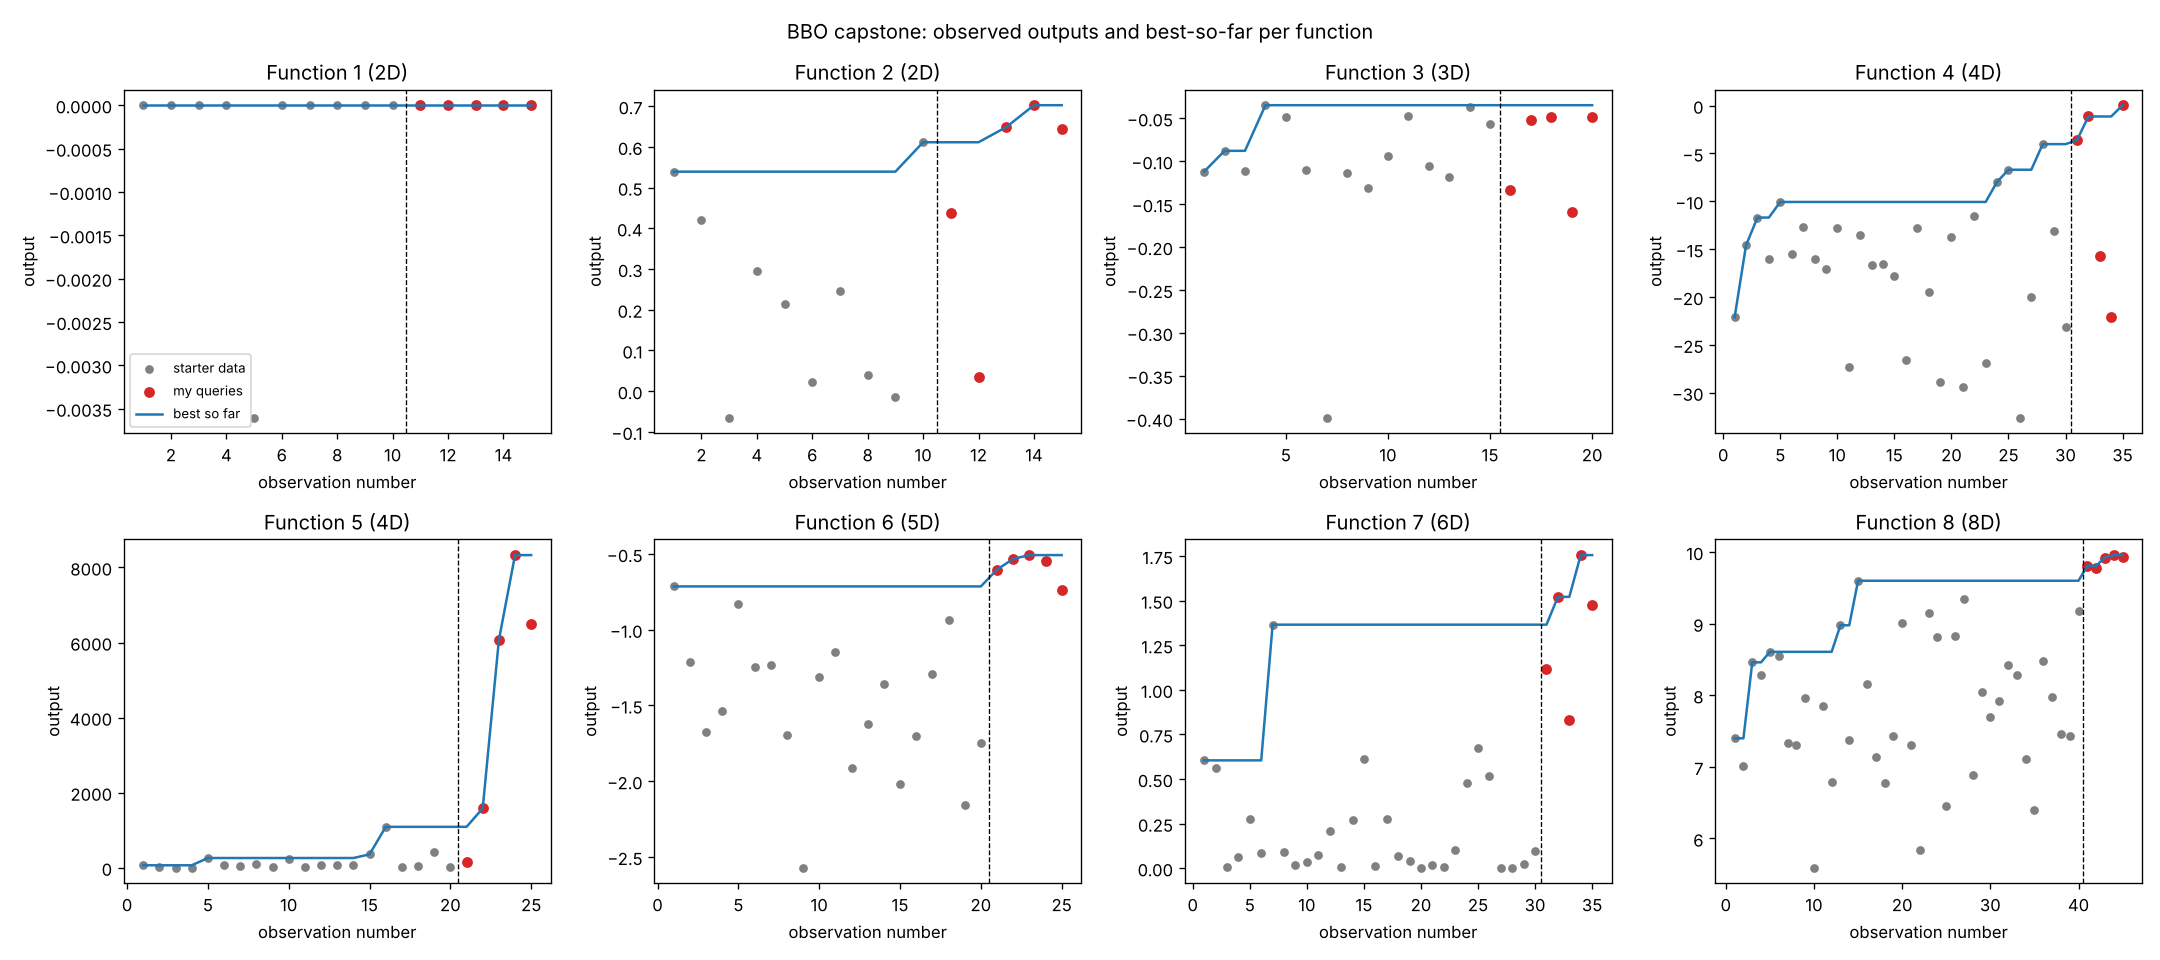
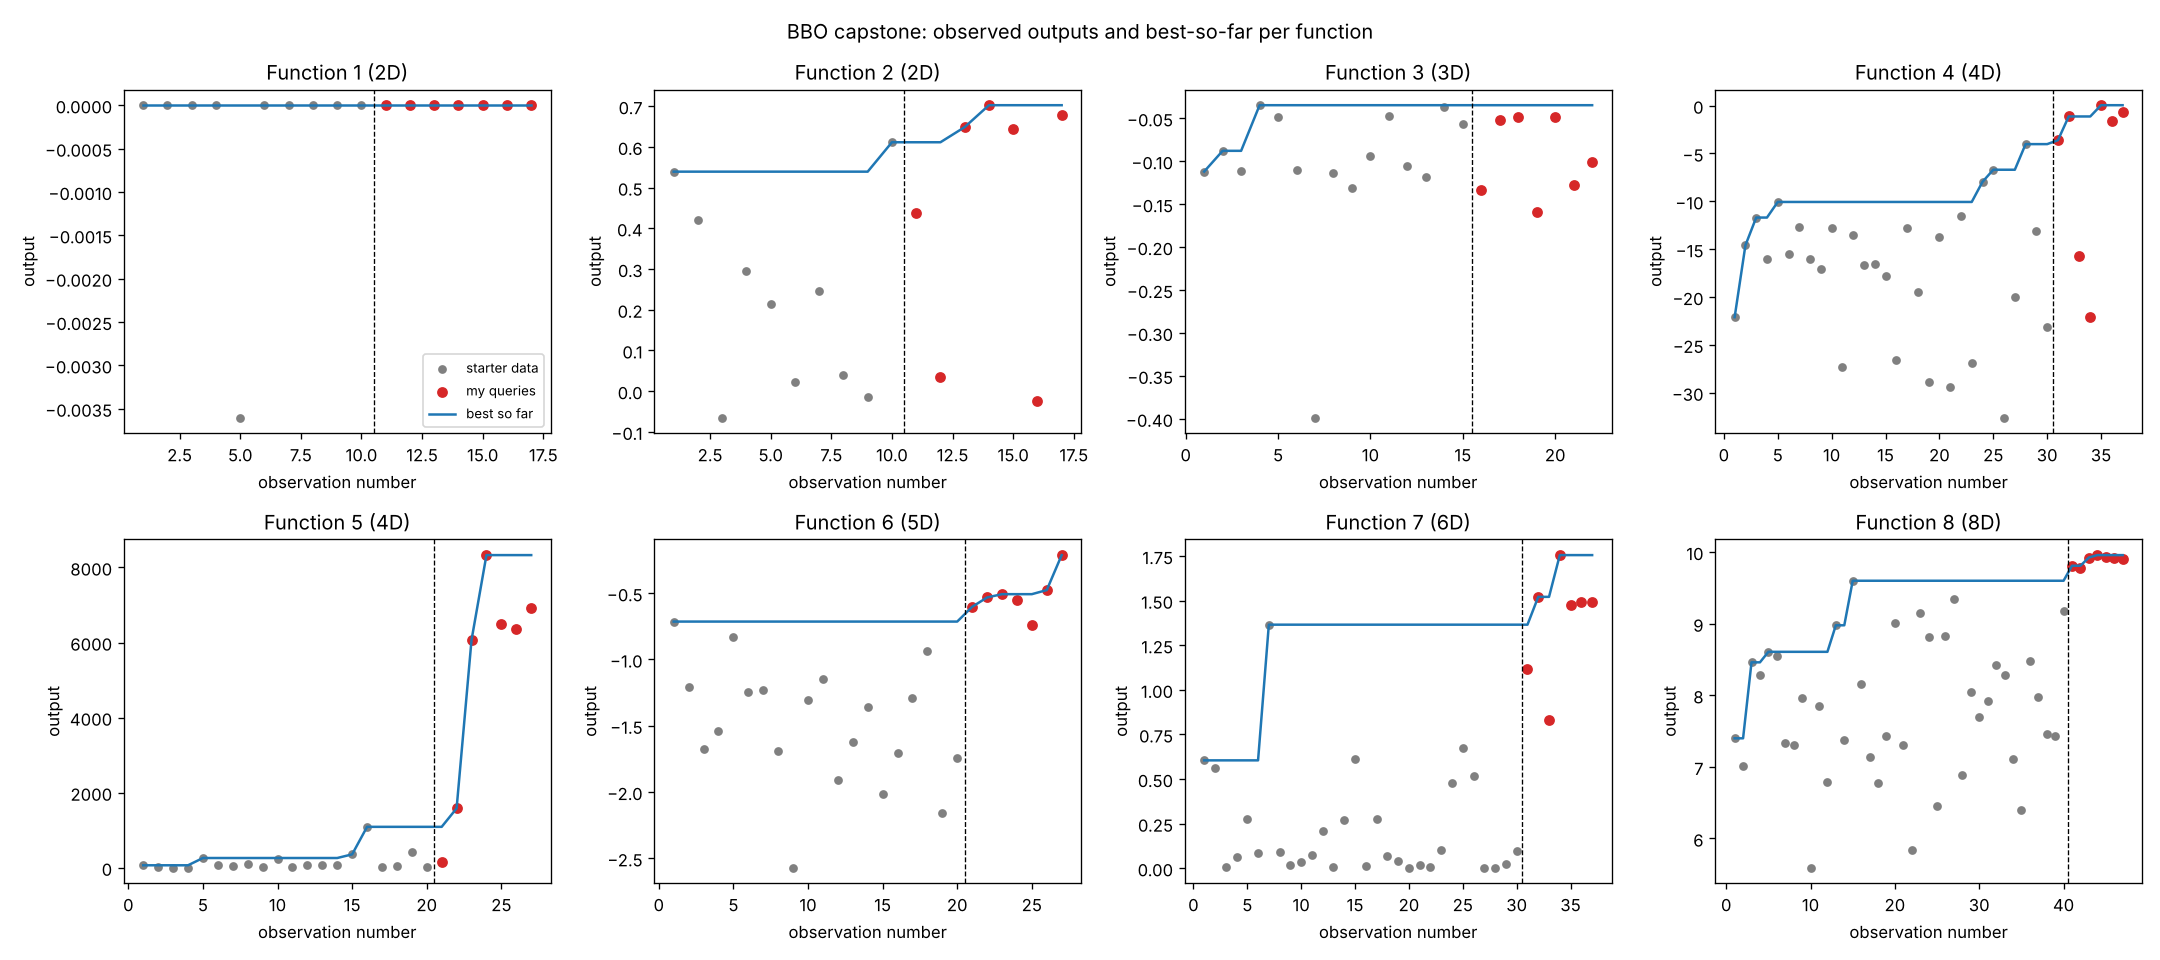
Regenerate progress chart and README after Round 7

diff --git a/README.md b/README.md
@@ -1,78 +1,88 @@
-# IC-ML-AI-Capstone: Black-Box Optimisation (BBO)
+# IC-ML-AI-Capstone: Black-Box Optimisation Challenge
 
-Imperial College ML & AI capstone. The task was to find the maximum of eight unknown functions (2 to 8 inputs each, all inputs scaled to [0, 1)) when each function could only be queried once per round.
+## Summary
 
-**Status:** results for rounds 1 to 4 are included. Round 5 queries are logged but their results were still pending when this was written. Later rounds will be added as they are completed.
+This project is the capstone for the Imperial College London / Emeritus Professional Certificate in Machine Learning and Artificial Intelligence. The challenge is to find the inputs that give the highest output for eight hidden functions, without knowing their formulas and with only one test per function each round. This is like tuning an expensive experiment, such as a drug formulation or a factory process, where every test costs time and money. Each round, a statistical model learns from all results so far and suggests the most promising next test, balancing safe improvements against trying unexplored options. This repository records that process, its results and its limitations.
 
-## In plain language (non-technical summary)
+## Repository Structure
 
-Imagine searching for the highest point in eight foggy landscapes, but you may only check one spot per landscape each week. I used a statistical model that learns from every earlier check to predict where the highest ground might be, and how unsure it is about each area. Over the first four rounds, seven of the eight landscapes gave better results than my first check, four of them improving again in the latest round, while one stayed flat. With so few checks I cannot be sure I have found any true peak, but the method turns each new result into a better-informed next guess.
-
-## Contents
-
-| Path | What it is |
-|------|------------|
-| `notebooks/bbo_analysis.ipynb` | Walk-through of the method and results, with outputs. Regenerates every table and plot from `data/` |
-| `bbo.py` | Core code: GP fitting, output transforms, acquisition functions (UCB, Expected Improvement), query formatting, CSV helpers |
-| `cli.py` | Command line: `suggest` a query per function, `log` a result |
-| `config.json` | Per-function settings (acquisition, kappa or xi, transform, Matern nu, noise, local search scale) |
-| `data/observations.csv` | Every submitted query and the value the portal returned (rounds 1 to 4) |
-| `data/submissions.json` | The same results in the format used during the project |
-| `data/rounds/` | Per-round query logs for rounds 2 to 5, with settings and model diagnostics |
-| `DATASHEET.md` | Datasheet for the dataset |
-| `MODEL_CARD.md` | Model card for the optimisation model |
-| `reflections/` | Written reflections |
-| `requirements.txt` | Dependencies |
-| `LICENSE` | MIT |
-
-## Method
-
-Each round, for every function, the pipeline:
-
-1. **Transforms the outputs** (per function): none, rank (for Function 1, whose outputs are almost all about zero), signed log (Function 4), or log(1+y) (Function 5, which spans orders of magnitude).
-2. **Fits a Gaussian process** (scikit-learn) with an ARD Matern kernel (nu = 1.5 for Function 2, 2.5 otherwise) and, except for Function 5, a learned noise term.
-3. **Scores 20,000 candidate points** (half near the current best, half uniform) with an acquisition function: Upper Confidence Bound (`mu + kappa * sigma`) for Functions 1, 2, 4, 5, 7, 8 and Expected Improvement for Functions 3 and 6.
-4. **Submits the best-scoring candidate** that is not a near-duplicate of an earlier query, formatted to six decimals.
-5. **Logs the settings and two leave-one-out checks** (error and calibration) in `data/rounds/`.
-
-Settings were the same in rounds 2 to 5 (see `config.json`), so differences between queries come from new data rather than retuning. The transform definitions in `bbo.py` were inferred from the logged diagnostics and are a reconstruction, not a copy of the original submission code. Round 1 settings were not logged.
-
-## How to reproduce
-
-```bash
-git clone https://github.com/ajwat-ctrl/IC-ML-AI-Capstone.git
-cd IC-ML-AI-Capstone
-pip install -r requirements.txt
-jupyter notebook notebooks/bbo_analysis.ipynb
+```
+IC-ML-AI-Capstone/
+├── README.md
+├── requirements.txt
+├── Data/
+│   ├── function_1/ ... function_8/
+│   │   ├── initial_inputs.npy       official starter inputs
+│   │   └── initial_outputs.npy      official starter outputs
+│   └── submissions.json             my queries + real portal outputs, by round
+├── Code/
+│   ├── bbo_core.py                  data loading, GP surrogate, acquisition, formatting
+│   ├── run_round.py                 produces one query per function for a round
+│   ├── plot_progress.py             best-so-far plot for all eight functions
+│   └── BBO_round_walkthrough.ipynb  step-by-step notebook version of a round
+├── Results/
+│   ├── round_NN_queries.json        query, settings, seed and diagnostics per round
+│   └── progress.png                 progress plot
+└── Documentation/
+    ├── Datasheet.md
+    └── Model_Card.md
 ```
 
-`python cli.py suggest --round 6` proposes queries from the points in `data/observations.csv`. The submitted queries were also fitted on the initial data supplied by the capstone (10 to 40 points per function), which is not stored here, so proposals will not match them exactly.
+## Documentation
 
-## Data
+- **[Datasheet](Documentation/Datasheet.md)**: what the data is, how it was collected, transformations, intended uses and limitations.
+- **[Model Card](Documentation/Model_Card.md)**: how the optimiser works, settings per function and why, performance metrics, assumptions, limitations and ethics.
 
-`data/observations.csv` has 32 rows (8 functions x 4 rounds): `function, round, query, y, rationale`. The data is tiny, so it is stored directly in the repo. See `DATASHEET.md`.
+## The Problem
 
-## Results (rounds 1 to 4)
+- Eight functions with 2 to 8 inputs each, every input between 0 and 1
+- Each returns one number, and every function is treated as **maximisation**
+- One query per function per round, submitted through the capstone portal as `x1-x2-...-xn` (six decimals, hyphens, no spaces)
 
-| Function | Inputs | Best submitted result | Round | Best of all points (incl. supplied data)* |
-|----------|--------|-----------------------|-------|--------------------------------------------|
-| 1 | 2 | about 0 (1.2e-149) | 1 | 7.7e-16 |
-| 2 | 2 | 0.702 | 4 | 0.702 |
-| 3 | 3 | -0.0489 | 3 | -0.0348 |
-| 4 | 4 | -1.136 | 2 | -1.136 |
-| 5 | 4 | 8328.7 | 4 | 8328.7 |
-| 6 | 5 | -0.5075 | 3 | -0.5075 |
-| 7 | 6 | 1.755 | 4 | 1.755 |
-| 8 | 8 | 9.956 | 4 | 9.956 |
+## Approach
 
-\* From the model's training set before round 5 (`data/rounds/round_05_queries.json`).
+Bayesian optimisation with a Gaussian Process surrogate for each function. The GP predicts both a value and its uncertainty, and an acquisition function (Upper Confidence Bound or Expected Improvement) picks the next query by balancing the two. Settings are tuned per function from the official descriptions and the observed data. See the [Model Card](Documentation/Model_Card.md) for the full table.
 
-Highlights: Functions 2, 5, 7 and 8 each set a new best in round 4. Function 5 rose from 150 to 1,581 to 6,065 to 8,329 as queries moved towards a corner of the input space. Functions 3 and 6 got worse in round 4 than their round 3 results. Function 4 fell sharply in rounds 3 and 4 (-15.7, then -22.1), showing how steeply that function drops away from its best region. Function 1 returned values indistinguishable from zero in all four rounds.
+**Why Bayesian optimisation?** Evaluations are expensive and limited, the functions may be noisy and have several peaks, and Bayesian optimisation is designed to make the most of every evaluation by using uncertainty to decide where to look next.
 
-## Limitations
+## How to Run a Round
 
-See `MODEL_CARD.md`. In short: very few observations per function, a model that can be wrong in unexplored regions, and no guarantee of reaching the global maximum.
+```bash
+pip install -r requirements.txt
 
-## Licence
+# 1. Log last round's real portal results in Data/submissions.json, e.g.
+#    "function_1": [{"round": 1, "x": [0.214116, 0.834905], "y": 0.123}]
 
-MIT, see `LICENSE`.
+# 2. Generate this round's queries (add --loo for leave-one-out diagnostics)
+python Code/run_round.py --round 2 --loo
+
+# 3. Update the progress plot
+python Code/plot_progress.py
+```
+
+Or open `Code/BBO_round_walkthrough.ipynb` from inside the `Code/` folder and run all cells.
+
+## Results
+
+![Progress](Results/progress.png)
+
+| Function | Best output so far | Round found |
+|---|---|---|
+| 1 | 1.033e-14 | 5 |
+| 2 | 0.7022 | 4 |
+| 3 | -0.0487 | 5 |
+| 4 | 0.0413 | 5 |
+| 5 | 8328.68 | 4 |
+| 6 | -0.2128 | 7 |
+| 7 | 1.7549 | 4 |
+| 8 | 9.9565 | 4 |
+
+*(7 real rounds submitted so far; table updates each round from `Data/submissions.json`.)*
+
+## Challenges and Insights
+
+- **Function 1** appears to have a maximum essentially at 0 (best observed is ~1e-14, effectively flat across most of the search space), so the optimiser converged within a few rounds and later queries are mostly local refinement rather than exploration.
+- **Functions 2, 4, 5, 7 and 8** all found their best value early (by round 4) and have since plateaued — later rounds nudge around that optimum rather than beating it, which is expected once the GP's uncertainty in that region collapses.
+- **Function 6** was the outlier: it kept improving through round 7, including a large jump that round, suggesting its optimum sits somewhere the earlier UCB/EI settings hadn't prioritised yet. Worth watching whether this keeps climbing or was a one-off.
+- **Function 5** has the widest output range by far (hundreds to thousands) and needed a `log1p`/`signedlog`-style transform before the GP; without it a handful of large values would dominate the kernel fit and starve the rest of the input space of attention.
+- Leave-one-out diagnostics (`--loo` flag) have been useful for sanity-checking whether a function's GP is well-calibrated (calibration ratio near 1) versus overconfident, which fed back into per-function kernel/noise settings in `Code/run_round.py`.
